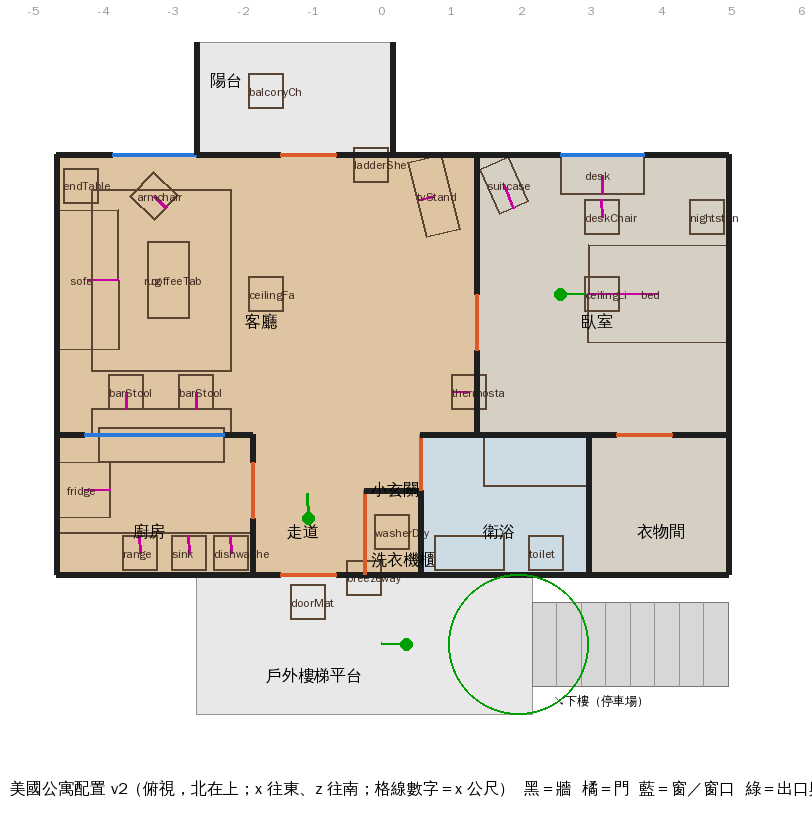
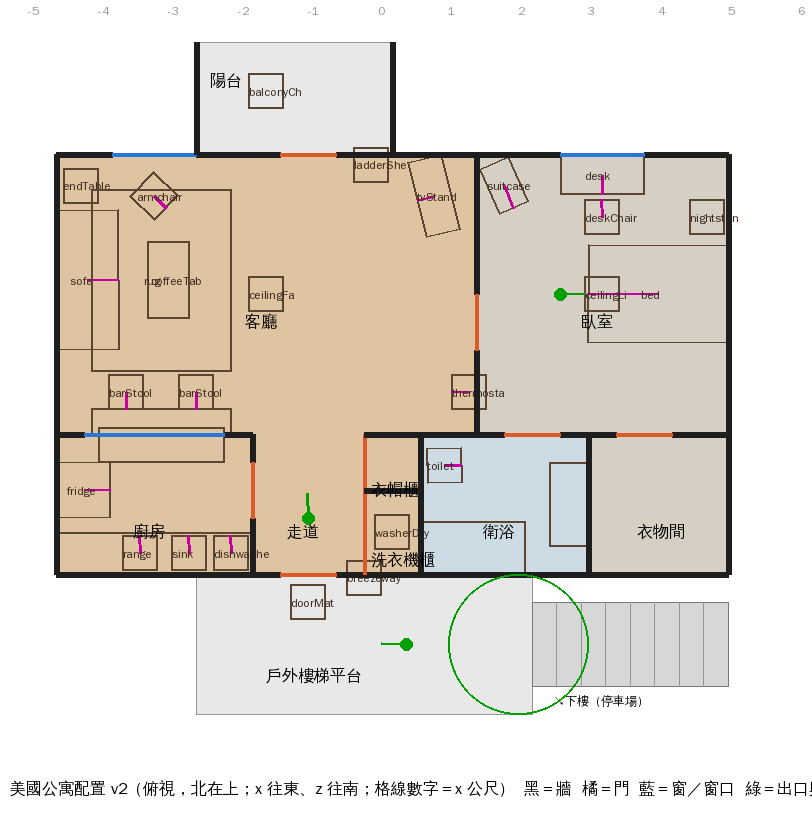
美國公寓配置 v2：浴室從臥室進（使用者 10-16 回答）——浴室門移到臥室南牆 (2.2,1.0)，衛浴重排（浴缸南牆、馬桶西牆、洗手台東牆）；走道旁的小空間改成衣帽櫃（門開在走道）；俯視圖更新
Claude-Session: https://claude.ai/code/session_01GV1WG3UeT2DhuDpxeWJsvD

diff --git a/src/data/us_apartment_layout.js b/src/data/us_apartment_layout.js
@@ -18,12 +18,12 @@
      ┌──────────────客廳──────────────┬────臥室────┐   z −3.0
      │ 窗        玻璃門        電視    │ 窗   書桌   │
      │ 沙發  茶几                      門      床   │
-     │ ▔▔吧台▔▔（高腳椅）   走道 小玄關 │            │   z  1.0
-     ├──廚房──────┬窗口┬─┤  ↓    ├─┬──衛浴──┼─衣物間─┤
+     │ ▔▔吧台▔▔（高腳椅）   走道        │ 門     門   │   z  1.0
+     ├──廚房──────┬窗口┬─┤  ↓    ├櫃┬──衛浴──┼─衣物間─┤
      │ 冰箱 爐子 水槽 洗碗機 │ 走道 │洗│        │      │
      └───────────────┴─大門─┴衣┴────────┴──────┘   z  3.0
             戶外樓梯平台（有屋頂、欄杆；東邊是往下的樓梯 → 停車場）       z 3.0～5.0
-   **還沒確認的**：浴室從哪裡進（先放在走道旁的小玄關；照片看不出來，已問使用者）。學姊住同一個社區的合租單位（AA-B 8f9408eb），
+   浴室從臥室進（使用者 2026-10-16 回答）；走道旁的小空間是衣帽櫃。學姊住同一個社區的合租單位（AA-B 8f9408eb），
    她的廚房（US2）是另外一個配置（照片三那種多房的單位：客廳＋窗口吧台，臥室門上有 A、B），之後另一份檔案。 */
 const US_APARTMENT_LAYOUT={
   "version":2,
@@ -37,7 +37,7 @@ const US_APARTMENT_LAYOUT={
     {"id":"living","x0":-4.6,"x1":1.4,"z0":-3.0,"z1":1.0,"floor":"wood","name":"客廳"},
     {"id":"kitchen","x0":-4.6,"x1":-1.8,"z0":1.0,"z1":3.0,"floor":"wood","name":"廚房"},
     {"id":"hallway","x0":-1.8,"x1":-0.2,"z0":1.0,"z1":3.0,"floor":"wood","name":"走道"},
-    {"id":"nook","x0":-0.2,"x1":0.6,"z0":1.0,"z1":1.8,"floor":"wood","name":"小玄關","note":"浴室門前"},
+    {"id":"coat","x0":-0.2,"x1":0.6,"z0":1.0,"z1":1.8,"floor":"wood","name":"衣帽櫃","walk":false,"note":"門開在走道那一側"},
     {"id":"laundry","x0":-0.2,"x1":0.6,"z0":1.8,"z1":3.0,"floor":"wood","name":"洗衣機櫃","walk":false},
     {"id":"bath","x0":0.6,"x1":3.0,"z0":1.0,"z1":3.0,"floor":"tile","name":"衛浴"},
     {"id":"closet","x0":3.0,"x1":5.0,"z0":1.0,"z1":3.0,"floor":"carpet","name":"衣物間"},
@@ -51,10 +51,11 @@ const US_APARTMENT_LAYOUT={
       {"id":"E","axis":"z","at":5.0,"from":-3.0,"to":3.0,"fade":true,"dir":[-1,0,0]},
       {"id":"kit_n","axis":"x","at":1.0,"from":-4.6,"to":-1.8,"open":[[-4.2,-2.2,"passThrough"]],"sill":1.05,"head":2.05,"note":"廚房朝客廳的牆：窗口下緣 1.05（吧台），上緣 2.05；窗口上方看得到廚房的吊櫃"},
       {"id":"kit_e","axis":"z","at":-1.8,"from":1.0,"to":3.0,"open":[[1.4,2.2,"kitchenDoor"]],"note":"廚房從走道進（沒有門板）"},
-      {"id":"lau_w","axis":"z","at":-0.2,"from":1.8,"to":3.0,"open":[[1.8,3.0,"laundryDoors"]],"note":"洗衣機櫃的百葉摺門（關著，導航擋住）"},
+      {"id":"lau_w","axis":"z","at":-0.2,"from":1.0,"to":3.0,"open":[[1.0,1.8,"coatDoor"],[1.8,3.0,"laundryDoors"]],"note":"走道東牆：衣帽櫃的門、洗衣機櫃的百葉摺門（都關著，導航擋住）"},
+      {"id":"coat_n","axis":"x","at":1.0,"from":-0.2,"to":0.6,"note":"衣帽櫃的北牆（客廳那一面）"},
       {"id":"lau_n","axis":"x","at":1.8,"from":-0.2,"to":0.6},
-      {"id":"bath_w","axis":"z","at":0.6,"from":1.0,"to":3.0,"open":[[1.0,1.8,"bathDoor"]]},
-      {"id":"bath_n","axis":"x","at":1.0,"from":0.6,"to":5.0,"open":[[3.4,4.2,"closetDoor"]],"fade":true,"dir":[0,0,-1],"note":"衛浴＋衣物間的北牆（臥室那一面）；衣物間的門從臥室開"},
+      {"id":"bath_w","axis":"z","at":0.6,"from":1.0,"to":3.0},
+      {"id":"bath_n","axis":"x","at":1.0,"from":0.6,"to":5.0,"open":[[1.8,2.6,"bathDoor"],[3.4,4.2,"closetDoor"]],"fade":true,"dir":[0,0,-1],"note":"衛浴＋衣物間的北牆（臥室那一面）：浴室、衣物間的門都從臥室開（使用者 10-16：浴室從臥室進去）"},
       {"id":"bath_e","axis":"z","at":3.0,"from":1.0,"to":3.0},
       {"id":"bed_w","axis":"z","at":1.4,"from":-3.0,"to":1.0,"open":[[-1.0,-0.2,"bedroomDoor"]],"fade":true,"dir":[1,0,0],"note":"臥室西牆＝客廳的東牆（照片一：臥室門在客廳右邊的牆，門開著看得到床）"},
       {"id":"bal_w","axis":"z","at":-2.6,"from":-4.6,"to":-3.0,"note":"陽台兩側的外牆"},
@@ -64,7 +65,8 @@ const US_APARTMENT_LAYOUT={
   "doors":[
     {"id":"front","x":-1.0,"z":3.0,"w":0.9,"label":"大門","plate":"214","openDoor":true,"style":"sixPanelWhite","note":"門號虛構；門外是樓梯平台"},
     {"id":"bedroom","x":1.4,"z":-0.6,"w":0.8,"axis":"z","label":"臥室","openDoor":true,"style":"sixPanelWhite"},
-    {"id":"bath","x":0.6,"z":1.4,"w":0.8,"axis":"z","label":"衛浴","closed":"衛浴。","style":"sixPanelWhite"},
+    {"id":"bath","x":2.2,"z":1.0,"w":0.8,"label":"衛浴","closed":"衛浴。","style":"sixPanelWhite","note":"從臥室進"},
+    {"id":"coat","x":-0.2,"z":1.4,"w":0.8,"axis":"z","label":"衣帽櫃","closed":"衣帽櫃。羽絨外套、雪靴。","style":"sixPanelWhite"},
     {"id":"closet","x":3.8,"z":1.0,"w":0.8,"label":"衣物間","closed":"衣物間。行李箱還塞在最裡面。","style":"sixPanelWhite"},
     {"id":"laundry","x":-0.2,"z":2.4,"w":1.2,"axis":"z","label":"洗衣機","closed":"洗衣機和烘衣機疊在一起。","style":"louverBifold"},
     {"id":"patio","x":-1.0,"z":-3.0,"w":0.8,"label":"陽台","glass":true,"note":"單扇的玻璃門（整片玻璃＋百葉），不是拉門"},
@@ -106,9 +108,9 @@ const US_APARTMENT_LAYOUT={
     {"type":"deskChair","room":"bedroom","x":3.2,"z":-2.1,"ry":3.1416,"seat":true},
     {"type":"ceilingLight","room":"bedroom","x":3.2,"z":-1.0,"note":"吸頂燈（照片一的臥室看得到）"},
     {"type":"suitcase","room":"bedroom","x":1.8,"z":-2.55,"w":0.45,"d":0.7,"ry":0.4,"note":"還沒拆完的行李箱"},
-    {"type":"vanity","room":"bath","x0":0.8,"x1":1.8,"z":2.7,"note":"洗手台＋鏡子"},
-    {"type":"toilet","room":"bath","x":2.4,"z":2.7},
-    {"type":"tub","room":"bath","x0":1.5,"x1":3.0,"z0":1.0,"z1":1.75,"note":"浴缸淋浴兩用（北牆那一邊；門開在西牆，進門左手邊是浴缸）"},
+    {"type":"tub","room":"bath","x0":0.6,"x1":2.1,"z0":2.25,"z1":3.0,"note":"浴缸淋浴兩用（南牆）"},
+    {"type":"toilet","room":"bath","x":0.95,"z":1.45,"ry":1.5708,"note":"靠西牆、面向東"},
+    {"type":"vanity","room":"bath","x0":2.45,"x1":3.0,"z0":1.4,"z1":2.6,"note":"洗手台＋鏡子（東牆、面向西）"},
     {"type":"closetRods","room":"closet","note":"吊衣桿、層架"},
     {"type":"washerDryer","room":"laundry","x":0.2,"z":2.4,"note":"上下疊"},
     {"type":"balconyChairs","x":-1.6,"z":-3.9,"n":2},

diff --git a/docs/art-rebuild/second_ai/US_EXCHANGE_PLAN.md b/docs/art-rebuild/second_ai/US_EXCHANGE_PLAN.md
@@ -11,7 +11,7 @@
 >   - 花崗石流理台、烤箱、微波爐、洗碗機、屋內洗衣機與烘衣機、陽台、吊扇；
 >   - 社區有健身房、游泳池、烤肉區、24 小時櫃台、門禁；旁邊是自然保護區步道、購物中心；搭公車去校園。
 >   - 官網連不上，外觀與格局照片都沒有看到，**格局是依 1x1 的典型配置推估**。使用者如果願意提供照片（外觀、室內），照照片改。
->   - **同一天使用者給了三張照片（客廳、社區外觀、廚房吧台）→ 配置改成 v2**：大門外是戶外樓梯平台（不是室內走廊）、廚房獨立＋窗口吧台、窗和陽台門同一面牆、家具照照片。特徵整理在 `research/us_apartment_photos.md`（原圖是社區宣傳照、看得到門牌，沒放進 repo）；俯視圖 `test_shots/us_apartment/layout_v2_plan.png`。浴室從哪裡進還在問使用者。
+>   - **同一天使用者給了三張照片（客廳、社區外觀、廚房吧台）→ 配置改成 v2**：大門外是戶外樓梯平台（不是室內走廊）、廚房獨立＋窗口吧台、窗和陽台門同一面牆、家具照照片。特徵整理在 `research/us_apartment_photos.md`（原圖是社區宣傳照、看得到門牌，沒放進 repo）；俯視圖 `test_shots/us_apartment/layout_v2_plan.png`。浴室從臥室進（使用者回答）。
 > - 新的配置提案：`src/data/us_apartment_layout.js`（取代原本的 us_dorm_layout，已刪）。
 > - **下面第 0～5 節原本寫的「交換宿舍、公用廚房、交誼區」都改成「公寓單人房」**。批次 1 改為：
 >   - 1a 公寓單人房室內＋門外的戶外樓梯平台（3D，可以走；v2）；

diff --git a/docs/art-rebuild/second_ai/research/us_apartment_photos.md b/docs/art-rebuild/second_ai/research/us_apartment_photos.md
@@ -83,7 +83,7 @@
 | 木紋地板、臥室地毯 | 一樣 | 一樣（顏色照照片調暖、調深） |
 | 多房單位、門上有「A」 | — | 學姊的合租單位（US2 煮泡麵，AA-B 8f9408eb）照這張做：客廳＋窗口吧台、臥室門上有字母 |
 
-照片看不出來的：**浴室從哪裡進**（先放在走道旁的小玄關；已問使用者）。
+照片看不出來的：浴室從哪裡進——**使用者回答：從臥室進去**（v2 已照改；走道旁的小空間改成衣帽櫃）。
 
 ## 社區戶外（之後的 `us_outside`）
 
